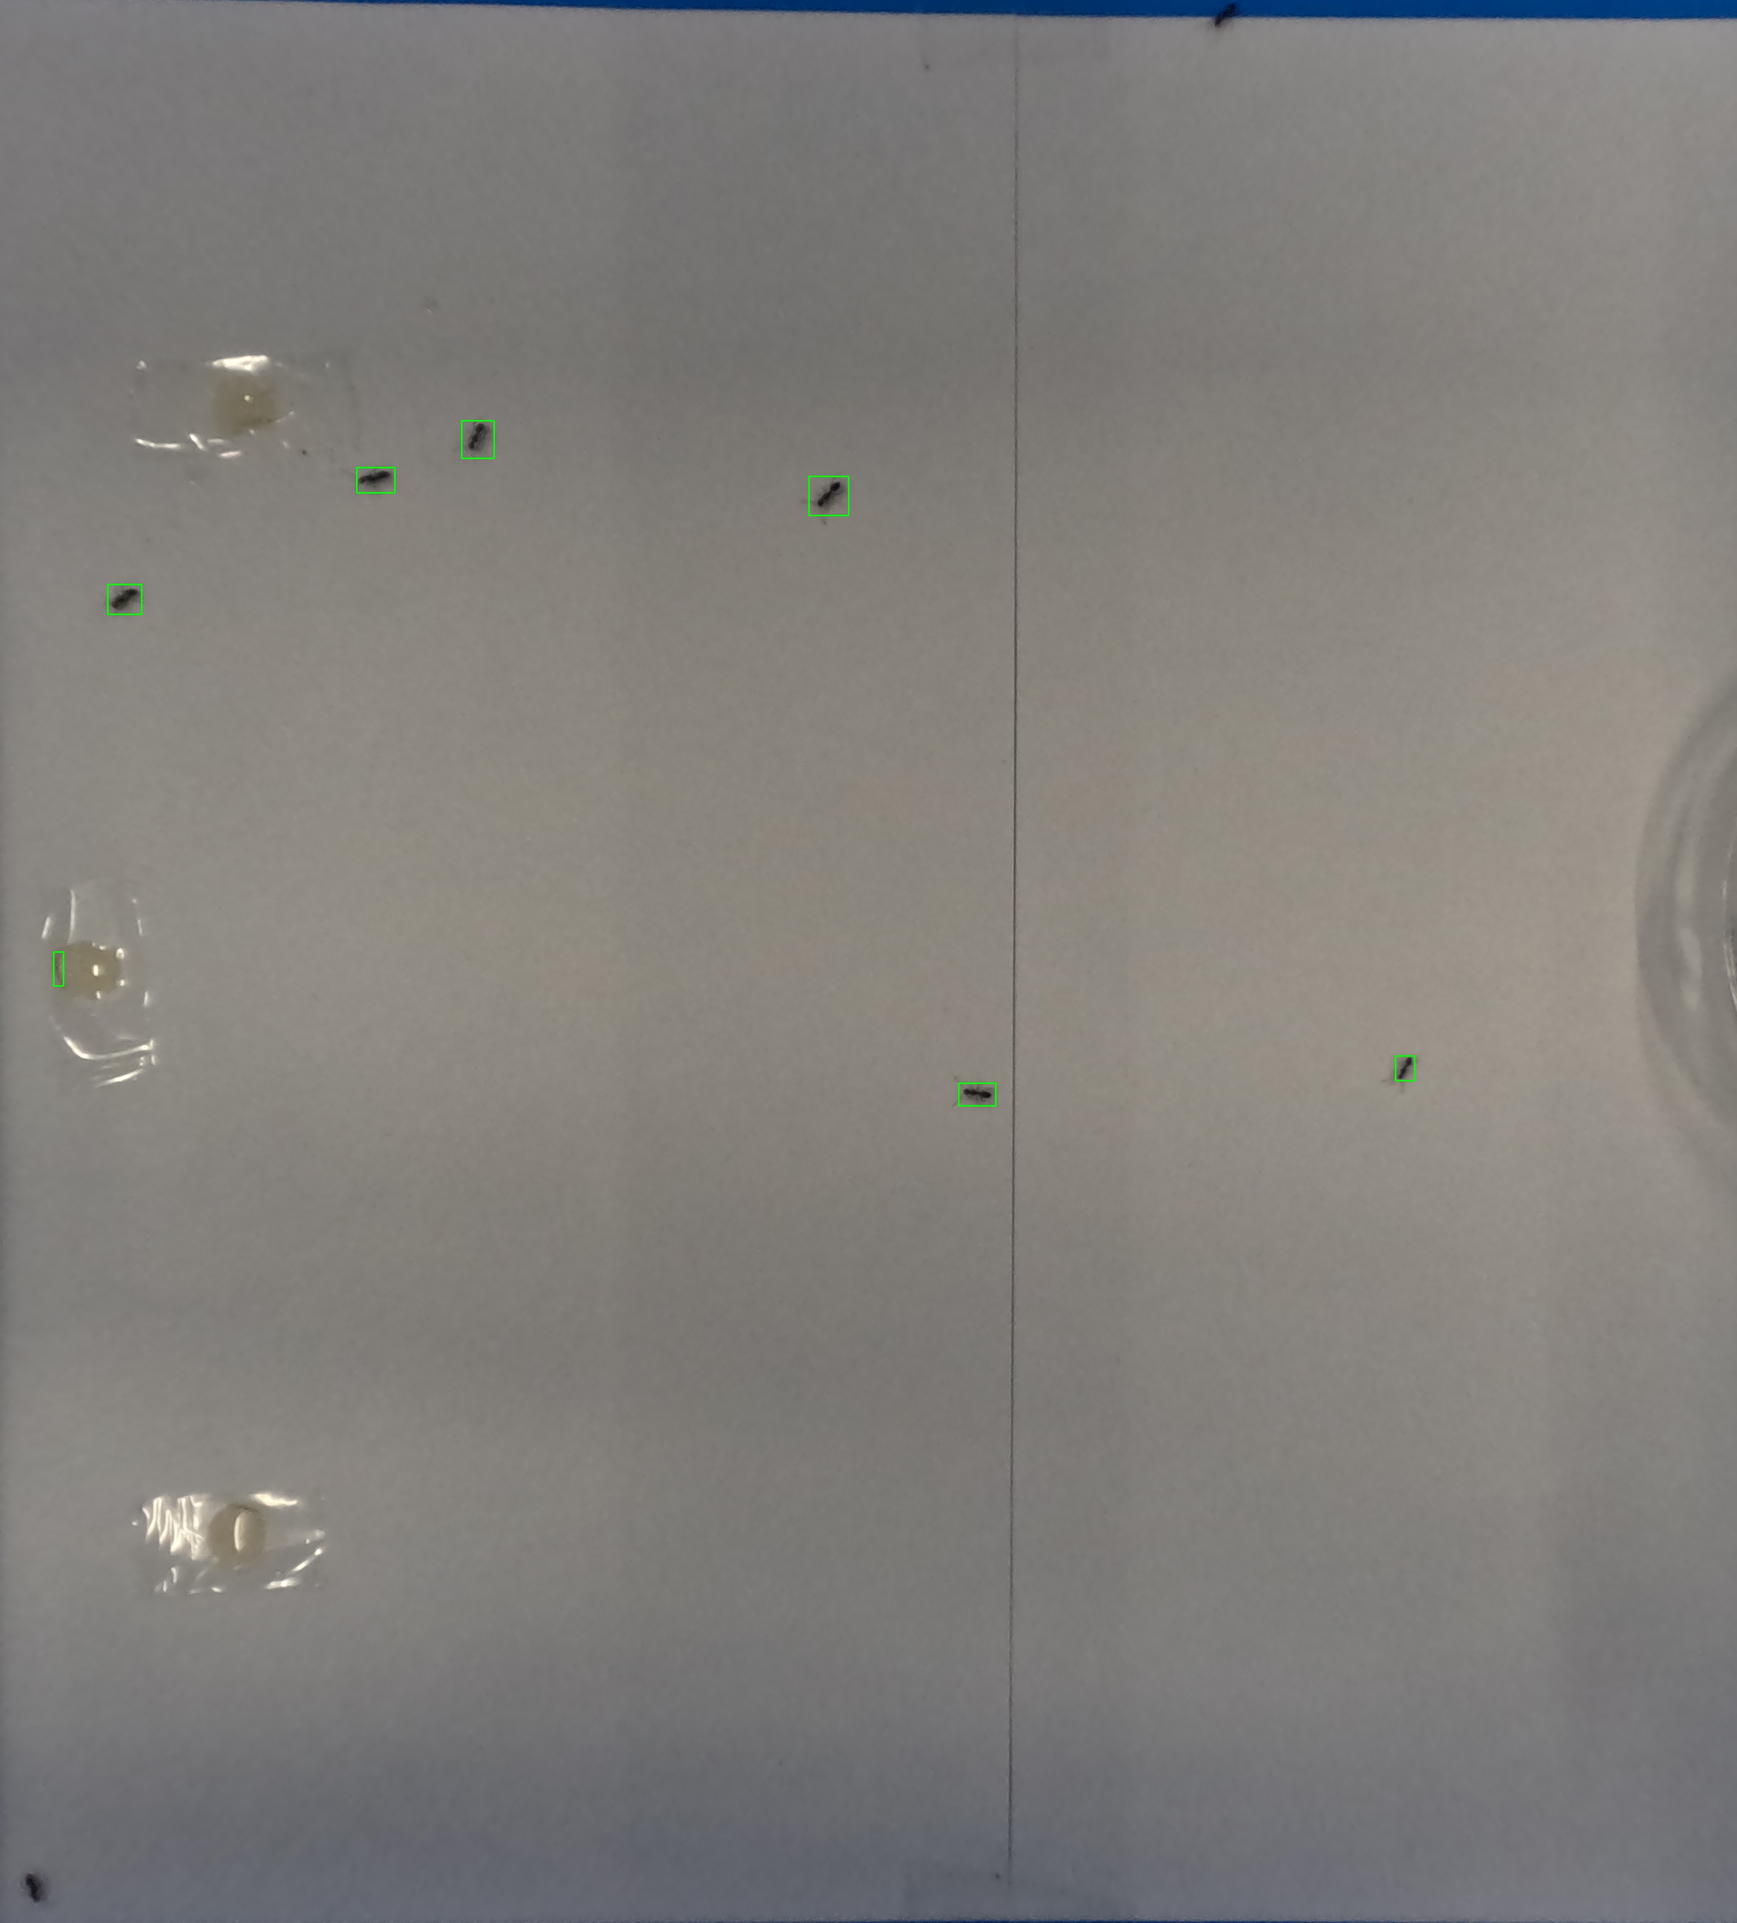
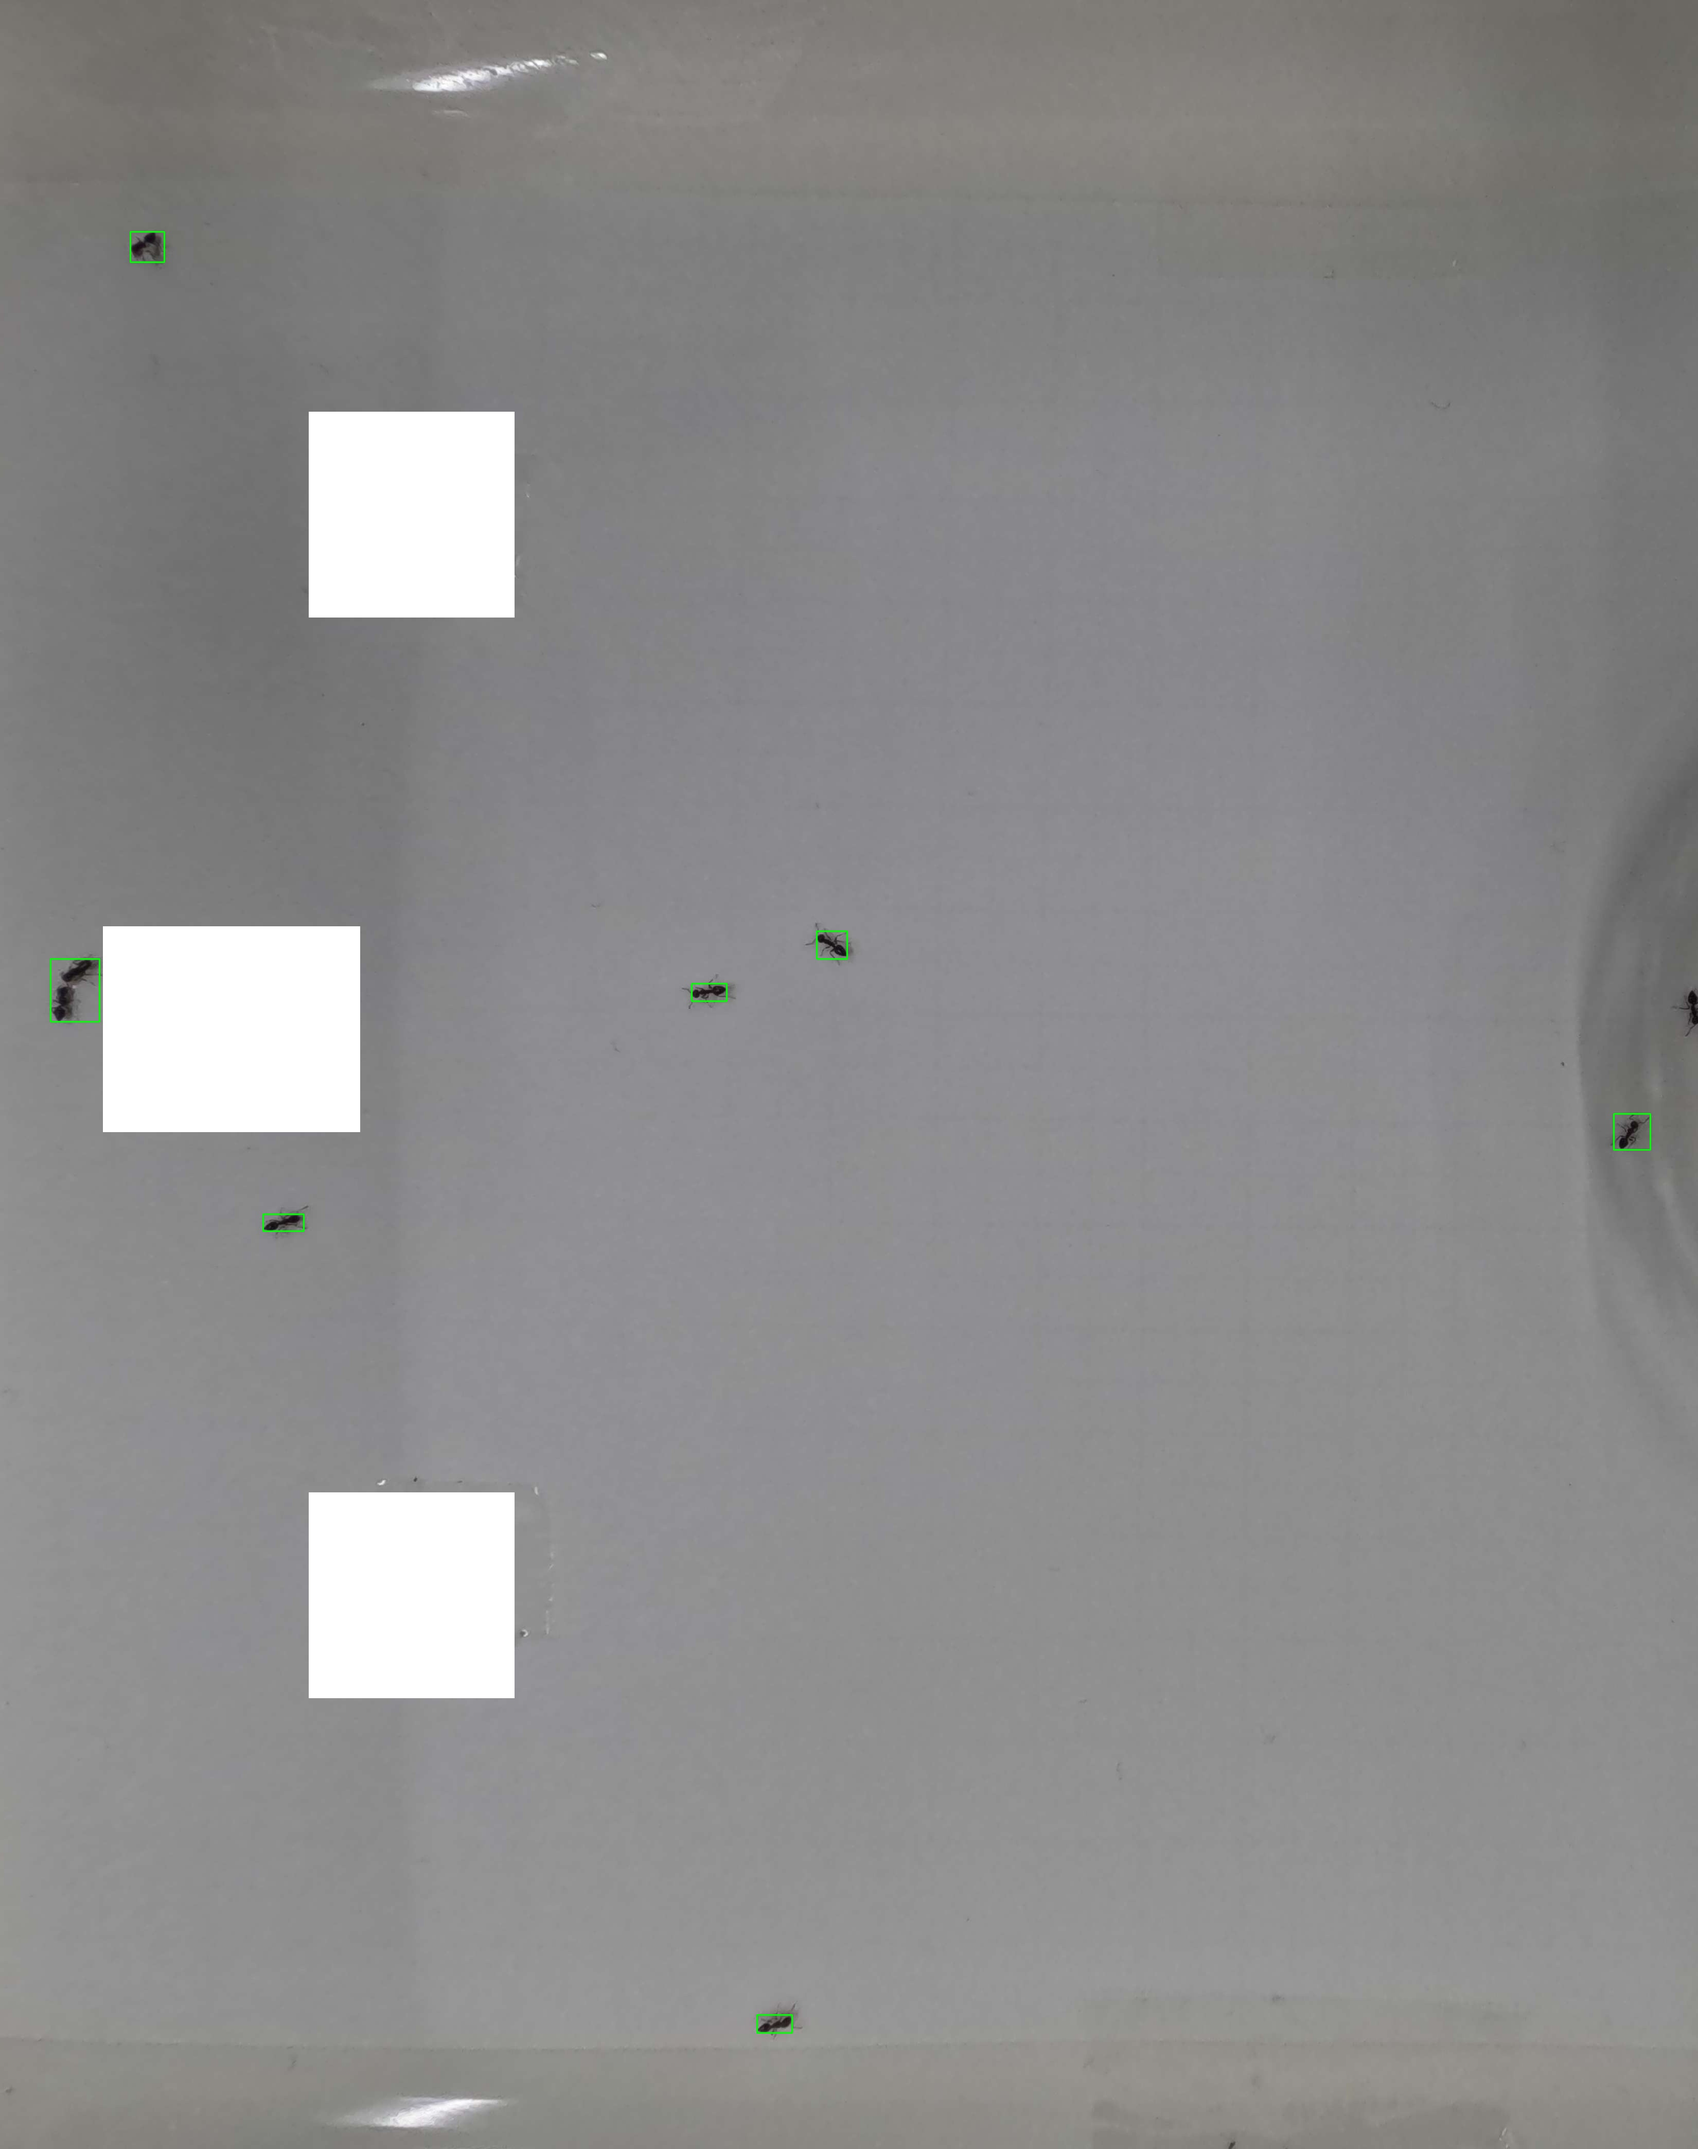
feat: add trimming func

diff --git a/src/normal.py b/src/normal.py
@@ -1,12 +1,27 @@
+import numpy as np
 import cv2
 
 def normal():
     # Load (画像読み込み)
-    image_path = './data/normal/sample.png'
+    image_path = './data/normal/sample.jpg'
     image = cv2.imread(image_path)
 
+    # Trimming (トリミング)
+    # [top : bottom, left : right]
+    trimming = image[0 : 4176, 200: 3500]
+    cv2.imwrite("./data/normal/trimming.jpg", trimming)
+
+    # Mask (マスク)
+    # 参考サイト: https://qiita.com/takiguchi-yu/items/277c596b7f96b0d9f9c0
+    # [top : bottom, left : right]
+    trimming[800:1200, 600:1000] = 255
+    trimming[1800:2200, 200:700] = 255
+    trimming[2900:3300, 600:1000] = 255
+
+    cv2.imwrite('./data/normal/mask.jpg', trimming)
+
     # Grayscale (グレースケール化)
-    grayscale = cv2.cvtColor(image, cv2.COLOR_BGR2GRAY)
+    grayscale = cv2.cvtColor(trimming, cv2.COLOR_BGR2GRAY)
     cv2.imwrite('./data/normal/grayscale.jpg', grayscale)
 
     # Remove noise using Gaussian blur (ノイズ除去)
@@ -15,16 +30,16 @@ def normal():
 
     # Threshold (二値化)
     # 参考サイト: https://qiita.com/tokkuri/items/ad5e858cbff8159829e9
-    _, threshold = cv2.threshold(grayscale, 110, 255, cv2.THRESH_BINARY)
+    _, threshold = cv2.threshold(grayscale, 90, 255, cv2.THRESH_BINARY)
     cv2.imwrite('./data/normal/threshold.jpg', threshold)
 
     # Find contours (輪郭抽出)
     # 参考サイト: https://www.codevace.com/py-opencv-findcontours/
     contours, _ = cv2.findContours(threshold, cv2.RETR_LIST, cv2.CHAIN_APPROX_NONE)
     # Draw contours (輪郭描画)
-    contours_image = image.copy()
+    contours_image = trimming.copy()
     cv2.drawContours(contours_image, contours, -1, color=(0, 255, 0), thickness=2)
-    cv2.imwrite('./data/normal/contours.jpg', image)
+    cv2.imwrite('./data/normal/contours.jpg', contours_image)
 
     # Draw rectangle (短形描画)
     # 参考サイト: https://qiita.com/neriai/items/448a36992e308f4cabe2
@@ -33,20 +48,25 @@ def normal():
     detect_count = 0
     # process each contour
     for contour in contours:
+        # Get bounding box
+        x, y, w, h = cv2.boundingRect(contour)
         # Get contour area
         area = cv2.contourArea(contour)
         # Remove noise
         # 参考サイト: https://nanjamonja.net/archives/171
-        if area < 5e2 or 4e3 < area:
-            continue
-        detect_count += 1
-        # Get bounding box
-        x, y, w, h = cv2.boundingRect(contour)
         # Draw rectangle
-        cv2.rectangle(image, (x, y), (x + w, y + h), (0, 255, 0), 2)
+        if 5e2 < area < 9e3:
+            # Ignore small and large area
+            cv2.rectangle(trimming, (x, y), (x + w, y + h), (0, 255, 0), 2)
+            # count rectangle
+            detect_count += 1
+        # Draw all rectangles
+        cv2.rectangle(contours_image, (x, y), (x + w, y + h), (0, 255, 0), 2)
+    # contours and rectangle
+    cv2.imwrite('./data/normal/contours_rectangle.jpg', contours_image)
     
     # Show detected count
     print(f"Detected {detect_count} rectangles.")
 
     # Save
-    cv2.imwrite('./data/normal/result.jpg', image)
+    cv2.imwrite('./data/normal/result.jpg', trimming)

diff --git a/src/main.py b/src/main.py
@@ -4,10 +4,10 @@ import sys
 
 def main():
     args = sys.argv
-    if args[1] == "--normal" or args[1] == "-n":
+    if args[1] == "--red" or args[1] == "-r":
         print("Red Image Processing")
         red()
-    if args[1] == "--red" or args[1] == "-r":
+    if args[1] == "--normal" or args[1] == "-n":
         print("Normal Image Processing")
         normal()
 

diff --git a/src/red.py b/src/red.py
@@ -22,7 +22,7 @@ def red():
     # Draw contours (輪郭描画)
     contours_image = image.copy()
     cv2.drawContours(contours_image, contours, -1, color=(0, 255, 0), thickness=2)
-    cv2.imwrite('./data/red/contours.jpg', image)
+    cv2.imwrite('./data/red/contours.jpg', contours_image)
 
     # Draw rectangle (短形描画)
     # rectangle quantity
